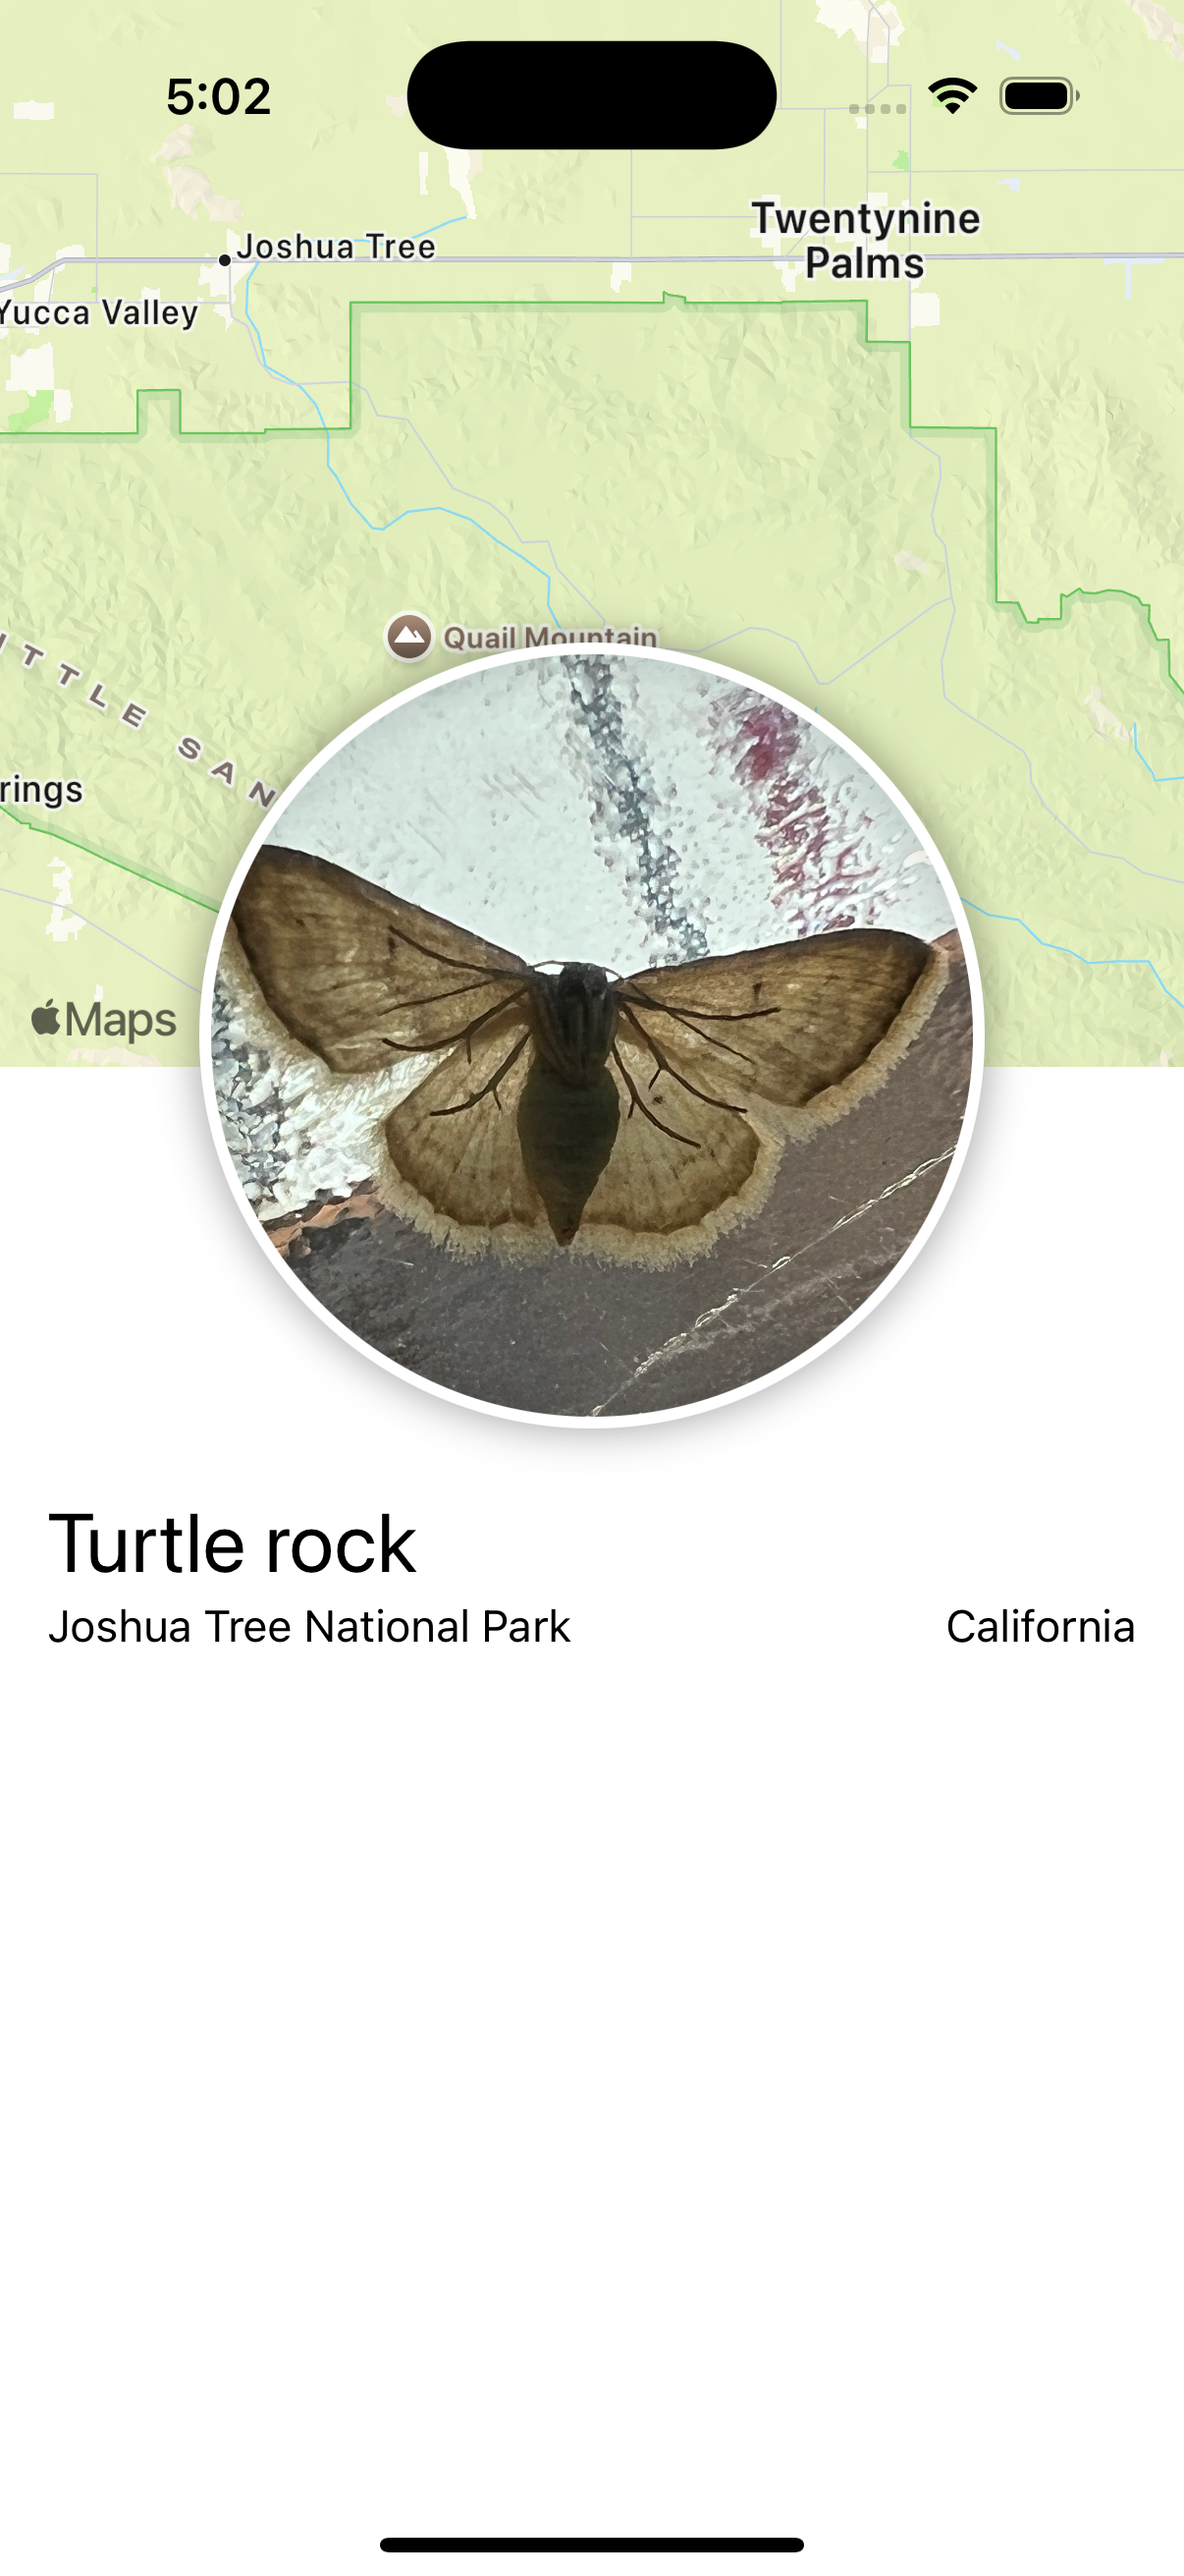
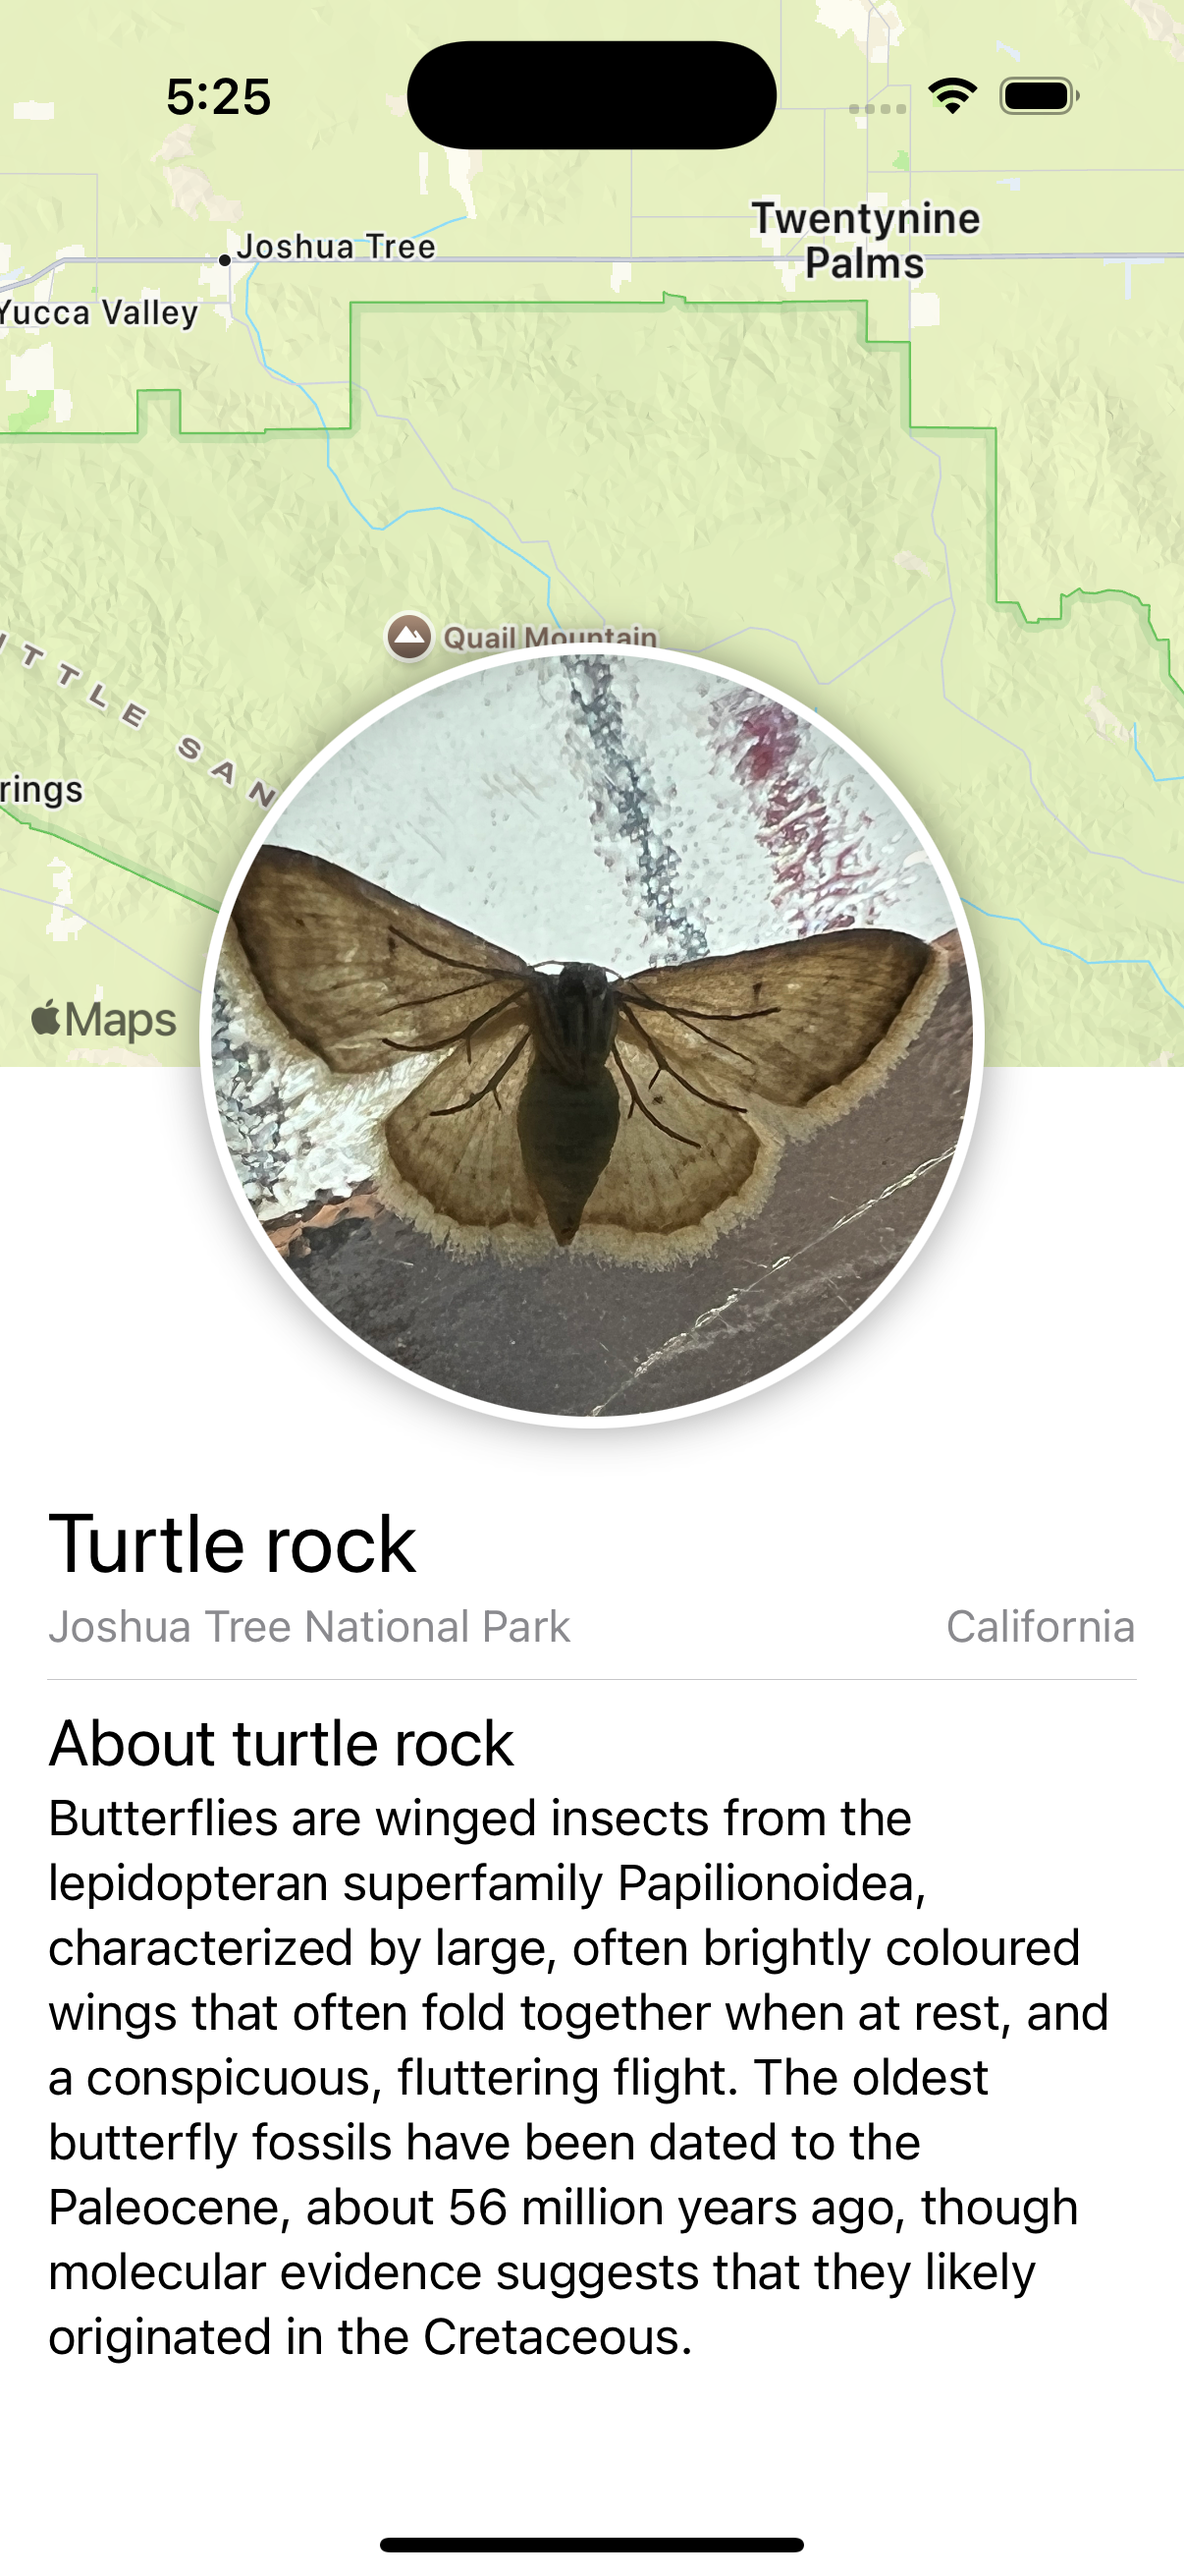
update screenshot

diff --git a/SwiftUI essentials/SwiftUI essentials/ContentView.swift b/SwiftUI essentials/SwiftUI essentials/ContentView.swift
@@ -16,22 +16,27 @@ struct ContentView: View {
                 .frame(width: 350)
                 .offset(y: -150)
                 .padding(.bottom, -150)
-            VStack(spacing: CGFloat.zero) {
-                VStack(alignment: .leading) {
-                    Text("Turtle rock")
-                        .font(.title)
-                        .foregroundStyle(FirstDayStyle())
-                    HStack {
-                        Text("Joshua Tree National Park")
-                            .font(.subheadline)
-                        Spacer()
-                        Text("California")
-                            .font(.subheadline)
-                    }
-                    
+            
+            VStack(alignment: .leading) {
+                Text("Turtle rock")
+                    .font(.title)
+                    .foregroundStyle(FirstDayStyle())
+                HStack {
+                    Text("Joshua Tree National Park")
+                    Spacer()
+                    Text("California")
                 }
-                .padding()
+                .font(.subheadline)
+                .foregroundStyle(.secondary)
+                
+                Divider()
+                
+                Text("About turtle rock")
+                    .font(.title2)
+                Text("Butterflies are winged insects from the lepidopteran superfamily Papilionoidea, characterized by large, often brightly coloured wings that often fold together when at rest, and a conspicuous, fluttering flight. The oldest butterfly fossils have been dated to the Paleocene, about 56 million years ago, though molecular evidence suggests that they likely originated in the Cretaceous.")
+                    .font(.body)
             }
+            .padding()
             Spacer()
         }
     }
